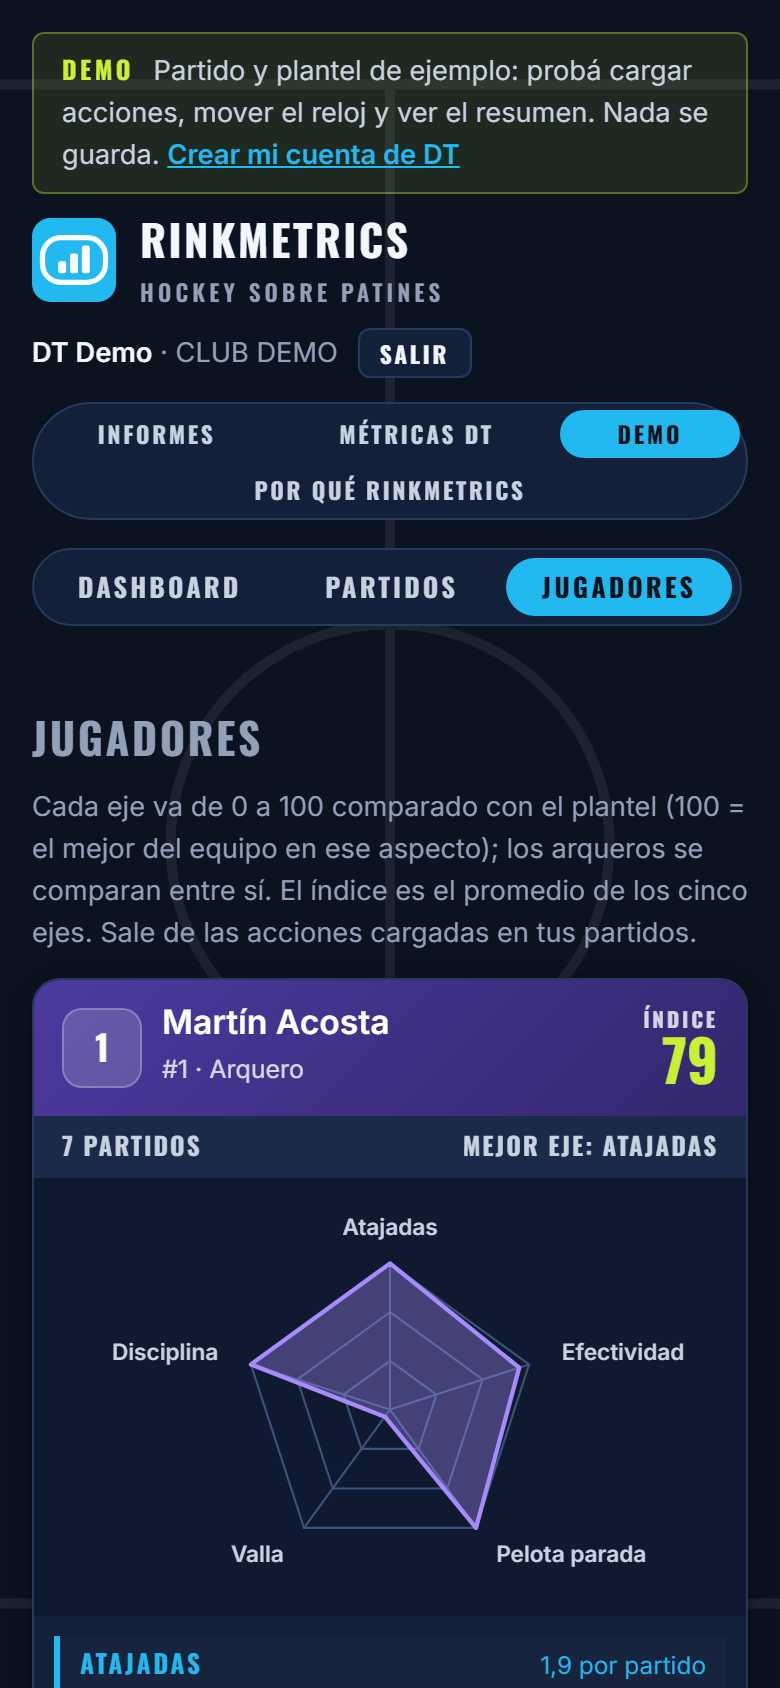
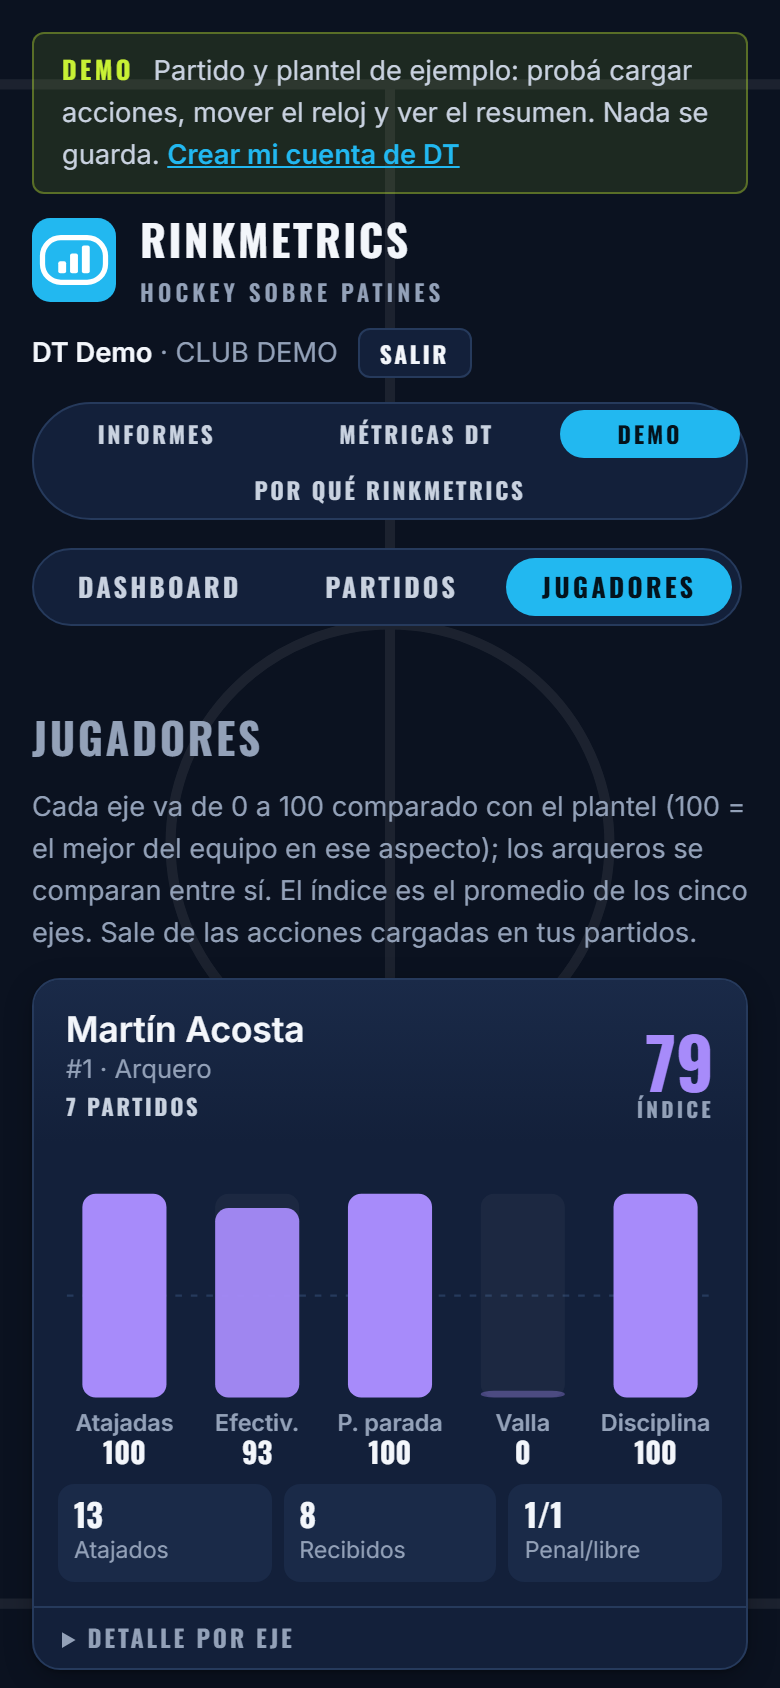
Ficha de jugador con ecualizador, distinta de la de Staticks
La ficha deja el pentágono y las filas con borde de color:
- Encabezado con nombre, número, equipo (o "Arquero"), partidos e índice.
- Ecualizador: una columna por eje, con la altura según el puntaje (0-100),
  el número debajo y una guía al 50; más brillante cuanto mejor. Los arqueros
  en violeta, con sus ejes.
- Datos clave: goles/tiros, recuperaciones | pérdidas y tarjetas (arquero:
  atajados, recibidos y penales/libres atajados).
- "Detalle por eje" desplegable con el dato de cada eje.
Capturas de la galería actualizadas.

Changed region(s): [[0.0308, 0.5545, 0.9538, 0.9242], [0.0308, 0.955, 0.9846, 1.0], [0.6462, 0.8934, 0.8308, 0.9242]]

diff --git a/src/main/resources/static/css/app.css b/src/main/resources/static/css/app.css
@@ -563,34 +563,42 @@ nav.secciones a { white-space: nowrap; }
 .grafico .punto { fill: var(--accent); stroke: var(--panel); stroke-width: 2; }
 
 .fichas { display: grid; gap: 14px; grid-template-columns: repeat(auto-fill, minmax(270px, 1fr)); margin-top: 12px; }
-.ficha { overflow: hidden; background: var(--panel); border: 1px solid var(--line); border-radius: 14px; box-shadow: var(--shadow); }
-.ficha-head { display: grid; grid-template-columns: auto 1fr auto; gap: 10px; align-items: center; padding: 12px 14px;
-              background: linear-gradient(135deg, #0a7ea4, #075f7d); color: #fff; }
-.ficha.arquero .ficha-head { background: linear-gradient(135deg, #4c3a9e, #33276e); }
-.ficha.sin-datos .ficha-head { background: #1a2a48; }
-.ficha-num { display: grid; place-items: center; width: 40px; height: 40px; border-radius: 10px; background: rgba(255, 255, 255, .16);
-             border: 1px solid rgba(255, 255, 255, .25); font: 700 1.1rem/1 var(--display); }
-.ficha-head b { display: block; font: 700 1.05rem/1.15 var(--body); }
-.ficha-head small { color: rgba(255, 255, 255, .8); font-size: .78rem; }
-.ficha-indice { text-align: right; }
-.ficha-indice small { display: block; font: 700 .65rem/1 var(--display); letter-spacing: .14em; text-transform: uppercase; }
-.ficha-indice b { font: 700 1.8rem/1 var(--display); color: var(--lime); }
-.ficha.sin-datos .ficha-indice b { color: rgba(255, 255, 255, .5); }
-.ficha-pj { display: flex; justify-content: space-between; gap: 8px; padding: 8px 14px; background: var(--panel-2);
-            font: 700 .78rem/1.2 var(--display); letter-spacing: .08em; text-transform: uppercase; color: var(--ink-2); }
-.ficha-pentagono { padding: 4px 6px 0; background: #0f1a30; }
-.pentagono { width: 100%; height: auto; display: block; }
-.pentagono .anillos polygon, .pentagono .anillos line { fill: none; stroke: #3a5378; stroke-width: 1; }
-.pentagono .area { fill: rgba(34, 184, 240, .35); stroke: var(--accent); stroke-width: 2; stroke-linejoin: round; }
-.ficha.arquero .pentagono .area { fill: rgba(167, 139, 250, .35); stroke: #a78bfa; }
-.pentagono .etiquetas { font: 600 10.5px var(--body); fill: var(--ink-2); }
-.ficha-filas { display: grid; gap: 6px; padding: 10px 10px 12px; }
-.ficha-fila { display: grid; grid-template-columns: 1fr auto; gap: 2px 8px; padding: 6px 10px; border-left: 3px solid var(--c);
-              background: rgba(255, 255, 255, .02); }
-.ficha-fila .t { font: 700 .8rem/1.2 var(--display); letter-spacing: .1em; text-transform: uppercase; color: var(--c); }
-.ficha-fila .v { font-size: .76rem; color: var(--c); text-align: right; }
-.ficha-fila .d { font-size: .76rem; color: var(--muted); }
-.ficha-fila .n { font: 700 .9rem/1.2 var(--body); color: var(--ink); text-align: right; }
+.ficha { overflow: hidden; display: flex; flex-direction: column; background: var(--panel); border: 1px solid var(--line);
+         border-radius: 14px; box-shadow: var(--shadow); }
+.ficha-head { display: flex; justify-content: space-between; align-items: flex-end; gap: 10px; padding: 14px 16px 10px;
+              background: linear-gradient(180deg, var(--panel-2), var(--panel)); }
+.ficha-head b { display: block; font: 700 1.1rem/1.2 var(--body); color: var(--ink); }
+.ficha-head small { color: var(--muted); font-size: .8rem; }
+.ficha-indice { text-align: right; flex: none; }
+.ficha-indice b { font: 700 2.2rem/1 var(--display); color: var(--accent); }
+.ficha.arquero .ficha-indice b { color: #a78bfa; }
+.ficha.sin-datos .ficha-indice b { color: var(--muted); }
+.ficha-indice small { display: block; margin-top: 2px; font: 700 .65rem/1 var(--display); letter-spacing: .16em; text-transform: uppercase; }
+.ficha-ecualizador { padding: 6px 12px 0; }
+.ficha-ecualizador .dt-vacio { padding: 30px 0; text-align: center; }
+.ecualizador { width: 100%; height: auto; display: block; }
+.ecualizador .fondo { fill: rgba(255, 255, 255, .04); }
+.ecualizador .guia { stroke: var(--line); stroke-width: 1; stroke-dasharray: 3 4; }
+.ecualizador .nombre { font: 600 10.5px var(--body); fill: var(--muted); text-anchor: middle; }
+.ecualizador .puntaje { font: 700 13px var(--display); fill: var(--ink); text-anchor: middle; }
+.ficha-datos { display: grid; grid-template-columns: repeat(3, minmax(0, 1fr)); gap: 6px; padding: 4px 12px 12px; }
+.ficha-datos div { padding: 6px 8px; border-radius: 8px; background: var(--panel-2); }
+.ficha-datos b { display: block; font: 700 1rem/1.2 var(--display); color: var(--ink); }
+.ficha-datos span { font-size: .72rem; color: var(--muted); }
+.ficha-detalle { margin-top: auto; border-top: 1px solid var(--line); }
+.ficha-detalle summary { padding: 9px 14px; cursor: pointer; font: 700 .75rem/1 var(--display); letter-spacing: .12em;
+                         text-transform: uppercase; color: var(--muted); }
+.ficha-detalle summary:hover { color: var(--accent); }
+.ficha-fila { display: grid; grid-template-columns: 1fr auto; gap: 2px 8px; padding: 6px 14px; border-top: 1px solid rgba(255, 255, 255, .04); }
+.ficha-fila .t { font: 700 .78rem/1.2 var(--display); letter-spacing: .08em; text-transform: uppercase; color: var(--ink-2); }
+.ficha-fila .v { font-size: .76rem; color: var(--accent); text-align: right; }
+.ficha.arquero .ficha-fila .v { color: #a78bfa; }
+.ficha-fila .d { font-size: .74rem; color: var(--muted); }
+.ficha-fila .n { font: 700 .88rem/1.2 var(--body); color: var(--ink); text-align: right; }
 body.dt-vivo .dt-menu { display: none; }
 
 @media (min-width: 960px) { .galeria-grid.galeria-dos { grid-template-columns: 1fr 1fr; grid-template-rows: auto; } }
+
+.ficha-head small { display: block; }
+.ficha-head .ficha-pj { margin-top: 2px; font: 700 .7rem/1.2 var(--display); letter-spacing: .12em; text-transform: uppercase; color: var(--ink-2); }
+.ficha-datos span { display: block; white-space: nowrap; overflow: hidden; text-overflow: ellipsis; }

diff --git a/src/main/resources/static/js/dt-fichas.js b/src/main/resources/static/js/dt-fichas.js
@@ -9,18 +9,18 @@ const DtFichas = (() => {
 
     // Ejes de cada ficha: los del jugador de campo y los del arquero. alto = más es mejor; bajo = menos es mejor.
     const EJES_CAMPO = [
-        {clave: "ataque", nombre: "Ataque", color: "#22b8f0", alto: true},
-        {clave: "precision", nombre: "Precisión", color: "#f97316", alto: true},
-        {clave: "desequilibrio", nombre: "Desequilibrio", color: "#a78bfa", alto: true},
-        {clave: "recuperacion", nombre: "Recuperación", color: "#22c55e", alto: true},
-        {clave: "disciplina", nombre: "Disciplina", color: "#ff6b6b", alto: false},
+        {clave: "ataque", nombre: "Ataque", corto: "Ataque", color: "#22b8f0", alto: true},
+        {clave: "precision", nombre: "Precisión", corto: "Precisión", color: "#f97316", alto: true},
+        {clave: "desequilibrio", nombre: "Desequilibrio", corto: "Deseq.", color: "#a78bfa", alto: true},
+        {clave: "recuperacion", nombre: "Recuperación", corto: "Recup.", color: "#22c55e", alto: true},
+        {clave: "disciplina", nombre: "Disciplina", corto: "Disciplina", color: "#ff6b6b", alto: false},
     ];
     const EJES_ARQUERO = [
-        {clave: "atajadas", nombre: "Atajadas", color: "#22b8f0", alto: true},
-        {clave: "efectividad", nombre: "Efectividad", color: "#22c55e", alto: true},
-        {clave: "pelotaParada", nombre: "Pelota parada", color: "#f97316", alto: true},
-        {clave: "valla", nombre: "Valla", color: "#a78bfa", alto: false},
-        {clave: "disciplina", nombre: "Disciplina", color: "#ff6b6b", alto: false},
+        {clave: "atajadas", nombre: "Atajadas", corto: "Atajadas", color: "#22b8f0", alto: true},
+        {clave: "efectividad", nombre: "Efectividad", corto: "Efectiv.", color: "#22c55e", alto: true},
+        {clave: "pelotaParada", nombre: "Pelota parada", corto: "P. parada", color: "#f97316", alto: true},
+        {clave: "valla", nombre: "Valla", corto: "Valla", color: "#a78bfa", alto: false},
+        {clave: "disciplina", nombre: "Disciplina", corto: "Disciplina", color: "#ff6b6b", alto: false},
     ];
 
     const clave = a => a.jugadorId > 0 ? "j" + a.jugadorId : "m" + a.jugadorNombre;
@@ -159,26 +159,26 @@ const DtFichas = (() => {
 
     const esc = s => String(s).replace(/[&<>"]/g, c => ({"&": "&amp;", "<": "&lt;", ">": "&gt;", '"': "&quot;"}[c]));
 
-    /** Pentágono de la ficha: anillos al 33, 66 y 100 % y el área del jugador. */
-    function pentagono(ejesFicha) {
-        const cx = 160, cy = 104, R = 68;
-        const punto = (i, r) => {
-            const ang = -Math.PI / 2 + i * 2 * Math.PI / 5;
-            return [cx + r * Math.cos(ang), cy + r * Math.sin(ang)];
-        };
-        const poly = r => [0, 1, 2, 3, 4].map(i => punto(i, r).map(n => n.toFixed(1)).join(",")).join(" ");
-        const area = ejesFicha.map((e, i) => punto(i, R * Math.max(0.06, e.puntaje / 100)).map(n => n.toFixed(1)).join(",")).join(" ");
-        const etiquetas = ejesFicha.map((e, i) => {
-            const [x, y] = punto(i, R + 16);
-            const ancla = Math.abs(x - cx) < 4 ? "middle" : x > cx ? "start" : "end";
-            return `<text x="${x.toFixed(1)}" y="${(y + 3).toFixed(1)}" text-anchor="${ancla}">${esc(e.nombre)}</text>`;
-        }).join("");
+    /**
+     * Ecualizador de la ficha: una columna por eje, con la altura según el puntaje (0 a 100) y el número debajo. Cuanto
+     * más alto, más brillante la columna; la línea punteada marca el 50.
+     */
+    function ecualizador(ejesFicha, arquero) {
+        const W = 300, base = 110, alto = 92, ancho = 38, paso = W / ejesFicha.length;
+        const tono = arquero ? [167, 139, 250] : [34, 184, 240];
         const titulo = ejesFicha.map(e => `${e.nombre} ${e.puntaje}`).join(", ");
-        return `<svg class="pentagono" viewBox="0 0 320 200" role="img" aria-label="${esc(titulo)}"><title>${esc(titulo)}</title>
-            <g class="anillos">${[1, 2 / 3, 1 / 3].map(f => `<polygon points="${poly(R * f)}"/>`).join("")}
-            ${[0, 1, 2, 3, 4].map(i => { const [x, y] = punto(i, R); return `<line x1="${cx}" y1="${cy}" x2="${x.toFixed(1)}" y2="${y.toFixed(1)}"/>`; }).join("")}</g>
-            <polygon class="area" points="${area}"/>
-            <g class="etiquetas">${etiquetas}</g></svg>`;
+        const columnas = ejesFicha.map((e, i) => {
+            const x = i * paso + (paso - ancho) / 2;
+            const h = Math.max(3, alto * e.puntaje / 100);
+            const brillo = (0.35 + 0.65 * e.puntaje / 100).toFixed(2);
+            return `<rect class="fondo" x="${x.toFixed(1)}" y="${base - alto}" width="${ancho}" height="${alto}" rx="6"/>
+                <rect x="${x.toFixed(1)}" y="${(base - h).toFixed(1)}" width="${ancho}" height="${h.toFixed(1)}" rx="6"
+                    fill="rgba(${tono.join(",")},${brillo})"><title>${esc(e.nombre)}: ${e.puntaje} · ${esc(e.texto)}</title></rect>
+                <text class="nombre" x="${(x + ancho / 2).toFixed(1)}" y="${base + 15}">${esc(e.corto)}</text>
+                <text class="puntaje" x="${(x + ancho / 2).toFixed(1)}" y="${base + 30}">${e.puntaje}</text>`;
+        }).join("");
+        return `<svg class="ecualizador" viewBox="0 0 ${W} 146" role="img" aria-label="${esc(titulo)}"><title>${esc(titulo)}</title>
+            <line class="guia" x1="4" y1="${base - alto / 2}" x2="${W - 4}" y2="${base - alto / 2}"/>${columnas}</svg>`;
     }
 
     /** Estado de los partidos: una barra por estado. */
@@ -207,5 +207,5 @@ const DtFichas = (() => {
                 <text class="eje" x="${x.toFixed(1)}" y="${H - 8}" text-anchor="middle">${meses[i].etiqueta}</text>`).join("")}</svg>`;
     }
 
-    return {calcular, dashboard, pentagono, barrasEstado, lineaMeses};
+    return {calcular, dashboard, ecualizador, barrasEstado, lineaMeses};
 })();

diff --git a/src/main/resources/static/js/dt.js b/src/main/resources/static/js/dt.js
@@ -659,29 +659,37 @@
         }
     }
 
+    /** Ficha del jugador: encabezado con el índice, ecualizador de los cinco ejes, datos clave y el detalle por eje. */
     function ficha(f, equipo) {
         const card = el("article", "ficha" + (f.arquero ? " arquero" : "") + (f.indice == null ? " sin-datos" : ""));
         const head = el("header", "ficha-head");
-        head.append(el("span", "ficha-num", f.numero || "–"));
         const quien = el("div");
-        quien.append(el("b", null, f.nombre), el("small", null, `${f.numero ? "#" + f.numero + " · " : ""}${f.arquero ? "Arquero" : equipo}`));
+        quien.append(el("b", null, f.nombre),
+            el("small", null, `${f.numero ? "#" + f.numero + " · " : ""}${f.arquero ? "Arquero" : equipo}`),
+            el("small", "ficha-pj", `${f.partidos} ${f.partidos === 1 ? "partido" : "partidos"}`));
         const idx = el("div", "ficha-indice");
-        idx.append(el("small", null, "Índice"), el("b", null, f.indice == null ? "–" : String(f.indice)));
+        idx.append(el("b", null, f.indice == null ? "–" : String(f.indice)), el("small", null, "Índice"));
         head.append(quien, idx);
-        const pj = el("div", "ficha-pj");
-        pj.append(el("span", null, `${f.partidos} ${f.partidos === 1 ? "partido" : "partidos"}`),
-            el("span", null, f.indice == null ? "Sin acciones cargadas" : `Mejor eje: ${f.ejes.slice().sort((a, b) => b.puntaje - a.puntaje)[0].nombre}`));
-        const graf = el("div", "ficha-pentagono");
-        graf.innerHTML = DtFichas.pentagono(f.ejes);
-        const filas = el("div", "ficha-filas");
+        const graf = el("div", "ficha-ecualizador");
+        if (f.indice == null) graf.append(el("p", "dt-vacio", "Sin acciones cargadas todavía."));
+        else graf.innerHTML = DtFichas.ecualizador(f.ejes, f.arquero);
+        const e = Object.fromEntries(f.ejes.map(x => [x.clave, x]));
+        const datos = f.arquero
+            ? [[`${e.efectividad.a}`, "Atajados"], [`${e.efectividad.b}`, "Recibidos"],
+               [`${e.pelotaParada.a}/${e.pelotaParada.a + e.pelotaParada.b}`, "Penal/libre"]]
+            : [[`${e.ataque.a}/${e.ataque.b}`, "Goles/tiros"], [`${e.recuperacion.a} | ${e.recuperacion.b}`, "Rec. | Pérd."],
+               [`${e.disciplina.b}`, "Tarjetas"]];
+        const chips = el("div", "ficha-datos");
+        for (const [v, n] of datos) { const c = el("div"); c.append(el("b", null, v), el("span", null, n)); chips.append(c); }
+        const detalle = el("details", "ficha-detalle");
+        detalle.append(el("summary", null, "Detalle por eje"));
         for (const x of f.ejes) {
             const fila = el("div", "ficha-fila");
-            fila.style.setProperty("--c", x.color);
             fila.append(el("span", "t", x.nombre), el("span", "v", x.texto),
                 el("span", "d", x.etiquetas.join(" · ")), el("span", "n", `${x.a} | ${x.b}`));
-            filas.append(fila);
+            detalle.append(fila);
         }
-        card.append(head, pj, graf, filas);
+        card.append(head, graf, chips, detalle);
         return card;
     }
 

diff --git a/src/main/resources/static/dt-inicio.html b/src/main/resources/static/dt-inicio.html
@@ -96,8 +96,8 @@
                 <figcaption><b>Dashboard general</b> Totales, estado de los partidos, evolución mes a mes y próximos partidos.</figcaption>
             </figure>
             <figure>
-                <img src="/img/demo/jugadores.png" alt="Fichas de los jugadores: índice, pentágono de cinco ejes y detalle de cada eje" loading="lazy" width="1920" height="1440">
-                <figcaption><b>Ficha de cada jugador</b> Índice y pentágono comparados con el plantel; los arqueros, con sus propios ejes.</figcaption>
+                <img src="/img/demo/jugadores.png" alt="Fichas de los jugadores: índice, ecualizador de cinco ejes y datos clave" loading="lazy" width="1920" height="1440">
+                <figcaption><b>Ficha de cada jugador</b> Índice y cinco ejes comparados con el plantel; los arqueros, con sus propios ejes.</figcaption>
             </figure>
         </div>
         <a class="go-link galeria-demo" href="/dt-demo.html">Probar la demo</a>

diff --git a/README.md b/README.md
@@ -250,7 +250,7 @@ perfil decide de dónde salen los clubes, las categorías, los jugadores y los i
   - **Dashboard general:** jugadores del plantel, partidos cargados y del mes; estado de los partidos (programados =
     creados con fecha futura y sin iniciar, en juego, finalizados); partidos jugados por mes (los últimos 6) y los
     próximos partidos.
-  - **Jugadores:** la ficha de cada uno, con índice (0 a 100) y un pentágono de cinco ejes comparados con el plantel
+  - **Jugadores:** la ficha de cada uno, con índice (0 a 100) y un ecualizador de cinco ejes (una columna por eje) comparados con el plantel
     (100 = el mejor del equipo): ataque, precisión, desequilibrio (faltas recibidas), recuperación (balance con las
     pérdidas) y disciplina. Los arqueros se comparan entre sí con sus ejes: atajadas, efectividad, pelota parada,
     valla y disciplina. Todo se calcula en el navegador (`js/dt-fichas.js`) con `GET /api/dt/acciones` (las acciones
